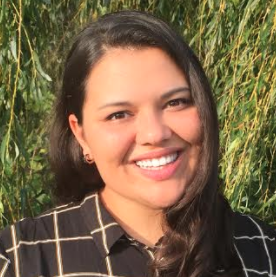
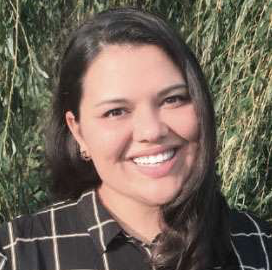
Add bio for Yuan & Hu, fix smooth-roll link bug, fix pricing

diff --git a/index.html b/index.html
@@ -116,7 +116,7 @@
           <div class="col-md-8 col-md-offset-2 probootstrap-section-heading">
             <h2 class="mb30 text-black probootstrap-heading">为什么选择风车留学？</h2>
               <p>
-              核心团队的成员大都有荷兰（全额）奖学金成功申请经验，外籍写手团队均为在欧洲学习的母语为英语的native speaker (来自于美国、英国、爱尔兰等国家）。
+              核心团队的成员都有荷兰（全额）奖学金成功申请经验，外籍写手团队均为在欧洲的母语为英语的高端学术人才(来自于美国，英国，爱尔兰等国家）。
               </p>
           </div>
         </div>
@@ -127,7 +127,7 @@
               <p><img src="img/yuan.jpg" class="img-responsive img-circle probootstrap-author-photo" alt="Free Template by ProBootstrap.com"></p>
               <p class="mb0">袁帅</p>
               <blockquote>
-                <p>Even the all-powerful Pointing has no control about the blind texts it is an almost unorthographic life One day however a small line of blind text by the name of Lorem Ipsum decided to leave for the far World of Grammar.</p>
+                <p>本科毕业于北京大学，获得荷兰蒂尔堡大学全额奖学金攻读心理学研究型硕士，硕士论文获蒂尔堡大学“最佳硕士论文”奖，并获得荷兰政府科学研究基金会(NWO)的博士基金攻读博士学位。</p>
               </blockquote>
             </div>
           </div>
@@ -136,7 +136,7 @@
               <p><img src="img/bonan.jpg" class="img-responsive img-circle probootstrap-author-photo" alt="windmill-edu.org"></p>
               <p class="mb0">赵博囡</p>
               <blockquote>
-                <p>本科毕业于清华大学，获得阿姆斯特丹大学逻辑学硕士全额奖学金，现任荷兰Screen6云科技初创公司核心数据分析师。</p>
+                <p>本科毕业于清华大学，获得阿姆斯特丹大学全额奖学金攻读逻辑学研究型硕士，现任荷兰Screen6初创公司核心数据分析师。</p>
               </blockquote>
             </div>
           </div>
@@ -155,7 +155,7 @@
               <p><img src="img/peipei.jpg" class="img-responsive img-circle probootstrap-author-photo" alt="Free Template by ProBootstrap.com"></p>
               <p class="mb0">胡佩佩</p>
               <blockquote>
-                <p>Even the all-powerful Pointing has no control about the blind texts it is an almost unorthographic life One day however a small line of blind text by the name of Lorem Ipsum decided to leave for the far World of Grammar.</p>
+                <p>曾就职于知名跨国公司和教育机构，后跨专业申请到荷兰攻读硕士学位。毕业后供职于荷兰顶尖的计算语言学公司，并利用业余时间策划和组织针对华人留学生群体的文化活动。</p>
               </blockquote>
             </div>
           </div>
@@ -193,16 +193,16 @@
         <div class="row">
           <div class="col-md-4">
             <div class="probootstrap-service-item probootstrap-animate" data-animate-effect="fadeIn">
-              <span class="icon icon-phone3"></span>
-              <h2>荷兰留学咨询</h2>
-              <p>我们将根据你的专业情况、个人兴趣、选校意向及生涯规划为你制定最优的全面解决方案，提供最有利于你的建议。</p>
-              <p><a href="#contact" class="probootstrap-link smoothscroll">马上预约 <i class="icon-chevron-right"></i></a></p>
+              <span class="icon icon-lightbulb"></span>
+              <h2>风车VIP</h2>
+              <p>包括留学咨询、方案确认、文书修改、材料递交、签证、入学安排、求职和入籍指导等。你只管梦想，我们为你把关。</p>
+              <p><a href="#contact" class="probootstrap-link smoothscroll">咨询客服 <i class="icon-chevron-right"></i></a></p>
             </div>
           </div>
           <div class="col-md-4">
             <div class="probootstrap-service-item probootstrap-animate" data-animate-effect="fadeIn">
               <span class="icon icon-wallet2"></span>
-              <h2>文书润色提升</h2>
+              <h2>风车文书</h2>
               <p>以英语为母语的导师对你的申请文书进行语法纠正，资深留学文书撰写顾问提供深入的文章结构修改建议。</p>
               <p>＊ 本服务也面向非荷兰的英语申请项目</p>              
               <p><a href="#editing" class="probootstrap-link smoothscroll">了解更多 <i class="icon-chevron-right"></i></a></p>
@@ -210,10 +210,10 @@
           </div>
           <div class="col-md-4">
             <div class="probootstrap-service-item probootstrap-animate" data-animate-effect="fadeIn">
-              <span class="icon icon-lightbulb"></span>
-              <h2>VIP定制服务</h2>
-              <p>包括留学咨询、方案确认、文书修改、材料递交、签证、入学安排、求职和入籍指导等。你只管梦想，我们为你把关。</p>
-              <p><a href="#contact" class="probootstrap-link smoothscroll">咨询客服 <i class="icon-chevron-right"></i></a></p>
+              <span class="icon icon-phone3"></span>
+              <h2>风车咨询</h2>
+              <p>我们将根据你的专业情况、个人兴趣、选校意向及生涯规划为你制定最优的全面解决方案，提供最有利于你的建议。</p>
+              <p><a href="#contact" class="probootstrap-link smoothscroll">马上预约 <i class="icon-chevron-right"></i></a></p>
             </div>
           </div>
         </div>
@@ -230,35 +230,7 @@
         <div class="row">
           <div class="col-md-4">
             <div class="probootstrap-pricing">
-              <h2>留学咨询</h2>
-              <p></p>
-              <p class="probootstrap-price"><strong>199元</strong></br><strong><strike>原价 599元</strike></strong></p>
-              <p class="probootstrap-note">＊ 初创团队，价格随供需浮动</p>
-              <ul class="probootstrap-list text-left mb50">
-                <li class="probootstrap-check">经验丰富的咨询师</li>
-                <li class="probootstrap-check">具个性化和最专业的解答</li>
-                <li class="probootstrap-check">度身定制最优申请计划</li>
-              </ul>
-              <p><a href="#contact" class="btn btn-black">Get Started</a></p>
-            </div>
-          </div>
-          <div class="col-md-4">
-            <div class="probootstrap-pricing probootstrap-popular probootstrap-shadow">
-              <h2>文书套装</h2>
-              <p></p>
-              <p class="probootstrap-price"><strong>299元 ～</strong></br><strong>1599元</strong></p>
-              <p class="probootstrap-note">＊ 初创团队，价格随供需浮动</p>
-              <ul class="probootstrap-list text-left mb50">
-                <li class="probootstrap-check">个人陈述，简历，推荐信</li>
-                <li class="probootstrap-check">具体价格见上</li>
-                <li class="probootstrap-check">也面向非荷兰的英语项目</li>
-              </ul>
-              <p><a href="#editing" class="btn btn-primary">Get Started</a></p>
-            </div>
-          </div>
-          <div class="col-md-4">
-            <div class="probootstrap-pricing">
-              <h2>VIP</h2>
+              <h2>风车VIP</h2>
               <p></p>
               <p class="probootstrap-price"><strong>9999元</strong></br><strong><strike>19800元</strike></strong></p>
               <p class="probootstrap-note">＊ 初创团队，价格随供需浮动</p>
@@ -267,7 +239,35 @@
                 <li class="probootstrap-check">全套文书修改／制作</li>
                 <li class="probootstrap-check">贴心后续服务</li>
               </ul>
-              <p><a href="#contact" class="btn btn-black">Get Started</a></p>
+              <p><a href="#contact" class="btn btn-black smoothscroll">Get Started</a></p>
+            </div>
+          </div>
+          <div class="col-md-4">
+            <div class="probootstrap-pricing probootstrap-popular probootstrap-shadow">
+              <h2>风车文书</h2>
+              <p></p>
+              <p class="probootstrap-price"><strong>299元 ～</strong></br><strong>1599元</strong></p>
+              <p class="probootstrap-note">＊ 初创团队，价格随供需浮动</p>
+              <ul class="probootstrap-list text-left mb50">
+                <li class="probootstrap-check">个人陈述，简历，推荐信</li>
+                <li class="probootstrap-check">具体价格见上</li>
+                <li class="probootstrap-check">也面向非荷兰的英语项目</li>
+              </ul>
+              <p><a href="#editing" class="btn btn-primary smoothscroll">Get Started</a></p>
+            </div>
+          </div>
+          <div class="col-md-4">
+            <div class="probootstrap-pricing">
+              <h2>风车咨询</h2>
+              <p></p>
+              <p class="probootstrap-price"><strong>199元</strong></br><strong><strike>原价 599元</strike></strong></p>
+              <p class="probootstrap-note">＊ 初创团队，价格随供需浮动</p>
+              <ul class="probootstrap-list text-left mb50">
+                <li class="probootstrap-check">经验丰富的咨询师</li>
+                <li class="probootstrap-check">最个性化和最专业的解答</li>
+                <li class="probootstrap-check">度身定制最优申请计划</li>
+              </ul>
+              <p><a href="#contact" class="btn btn-black smoothscroll">Get Started</a></p>
             </div>
           </div>
         </div>
@@ -291,7 +291,7 @@
             <h3 class="text-primary probootstrap-heading-2">文字润色</h3>
             <p><p>在欧洲求学的英文母语外国导师团队（来自美国，加拿大，英国，爱尔兰等地）全面润色你的语言，修改语法错误。</p></p>
             <ul class="probootstrap-list">
-              <li class="probootstrap-check">PS 299元/300字 (多1字0.8元）</li>
+              <li class="probootstrap-check">PS 249元/300字 (多1字0.8元）</li>
               <li class="probootstrap-check">CV 399元/1篇（两页）</li>
               <li class="probootstrap-check">RL 399元/1篇（600字）</li>
             </ul>
@@ -324,8 +324,8 @@
             <h3 class="text-primary probootstrap-heading-2">全包定制 All-in-one</h3>
             <p><p>专业水准拔尖的中国导师团队和外国导师团队齐心协力，让你的文书从诸多申请资料中脱颖而出，一举获得评审官的青睐。</p></p>
             <ul class="probootstrap-list">
-              <li class="probootstrap-check">视频交流版 1599元（800字）</li>
-              <li class="probootstrap-check">问题列表版 1199元（800字） </li>
+              <li class="probootstrap-check">视频交流版 1999元（800字）</li>
+              <li class="probootstrap-check">问题列表版 1599元（800字） </li>
             </ul>
           </div>
         </div>
